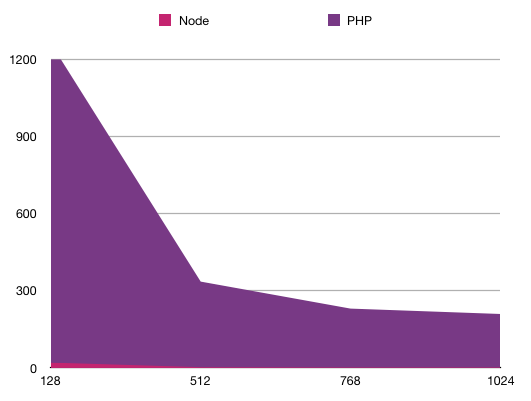
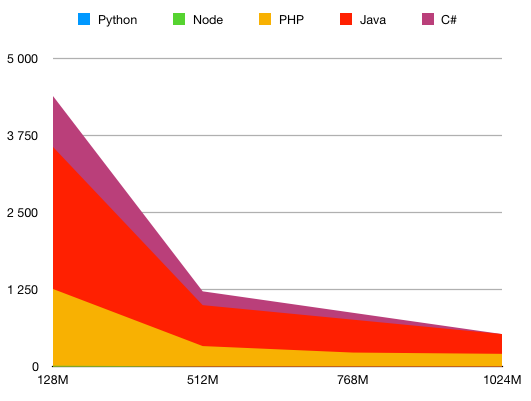
Update cold starts benchmarks

diff --git a/README.md b/README.md
@@ -33,20 +33,18 @@ This confirms that PHP adds 20ms-25ms to the lambda's execution time. The HTTP l
 
 ## Cold starts
 
-| Memory | Node lambda | PHP lambda |
-|--------|-------------|------------|
-| 128M   |        21ms |     1261ms |
-| 512M   |         3ms |      336ms |
-| 768M   |         2ms |      231ms |
-| 1024M  |         2ms |      210ms |
+Here are measurements made on Node and PHP lambdas, completed with [cold starts from other languages found in this comprehensive article](https://read.acloud.guru/does-coding-language-memory-or-package-size-affect-cold-starts-of-aws-lambda-a15e26d12c76).
+
+| Memory | Python | Node | PHP    | Java   | C#     |
+|--------|--------|------|--------|--------|--------|
+| 128M   |    1ms | 21ms | 1261ms | 3562ms | 4387ms |
+| 512M   |    0ms |  3ms |  336ms |  999ms | 1223ms |
+| 768M   |        |  2ms |  231ms |        |        |
+| 1024M  |    0ms |  2ms |  210ms |  530ms |  524ms |
 
 ![](coldstarts.png)
 
-For comparison here are [other languages cold starts](https://read.acloud.guru/does-coding-language-memory-or-package-size-affect-cold-starts-of-aws-lambda-a15e26d12c76):
-
-[![](coldstarts-other-languages.png)](https://read.acloud.guru/does-coding-language-memory-or-package-size-affect-cold-starts-of-aws-lambda-a15e26d12c76)
-
-**PHP's cold start is lower than Java and C#** even though both those languages are supported natively by AWS Lambda.
+**PHP's cold start is lower than Java and C#** even though both those languages are supported natively by AWS Lambda. From 768M and up the cold starts stabilize around 230ms.
 
 ## Reproducing
 
